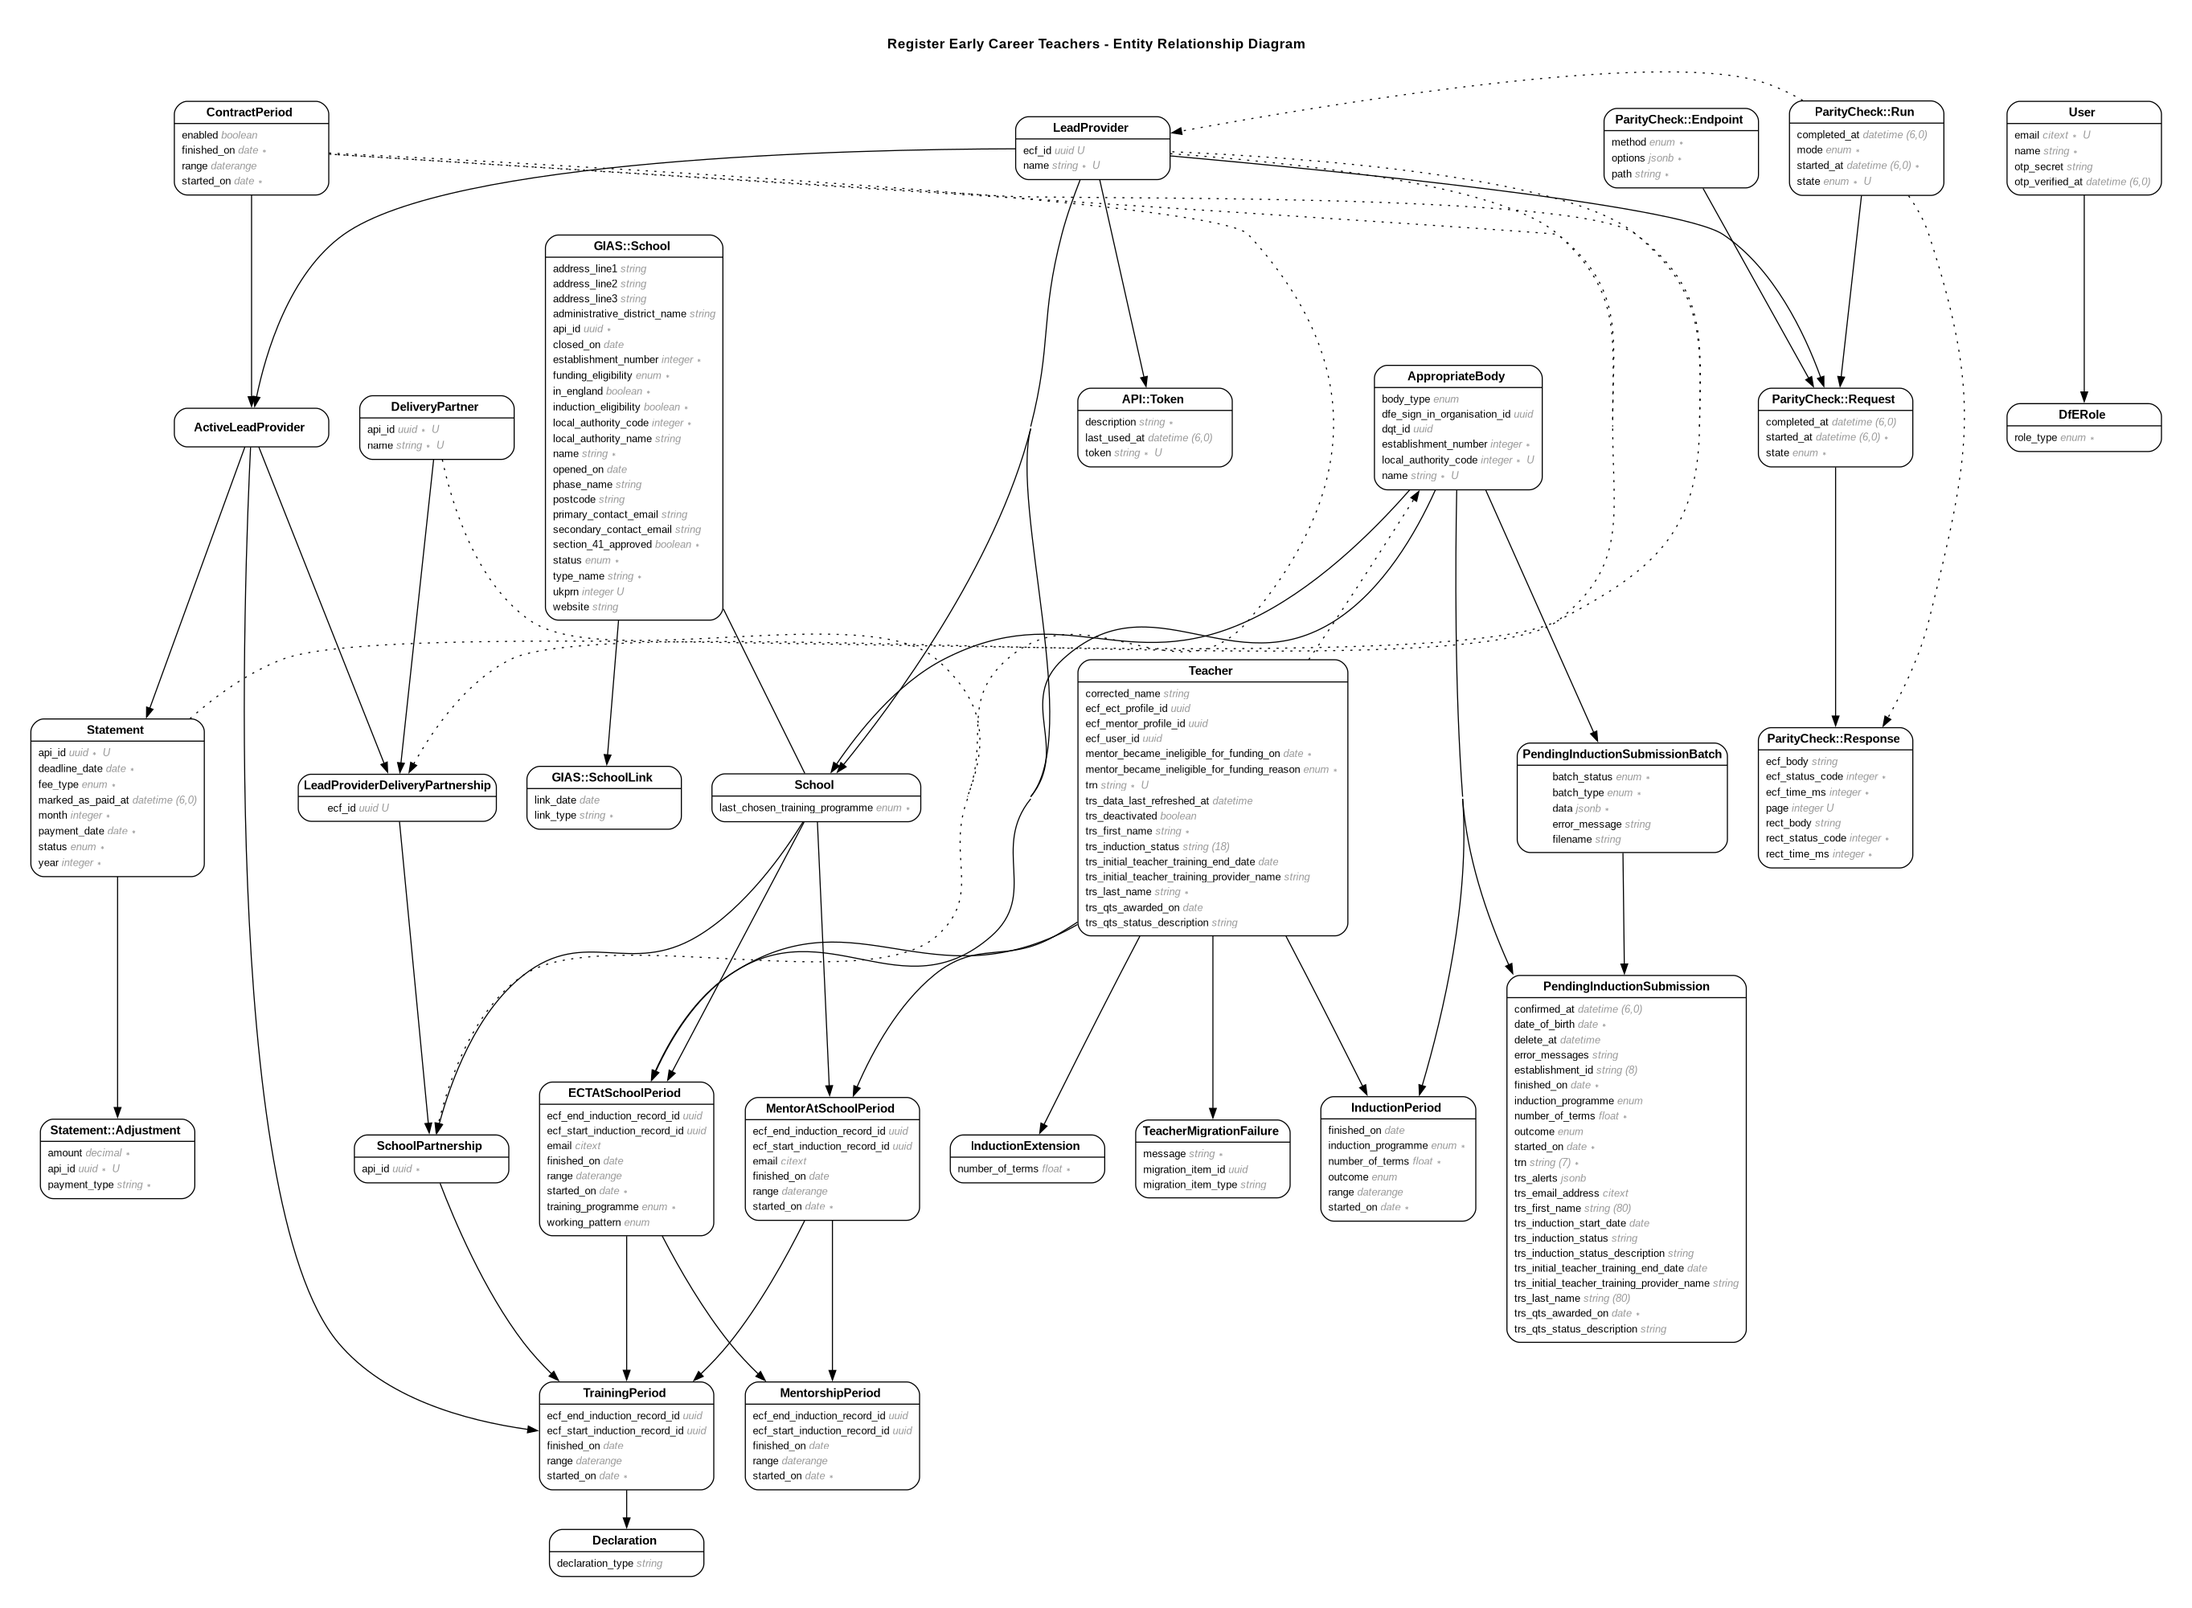
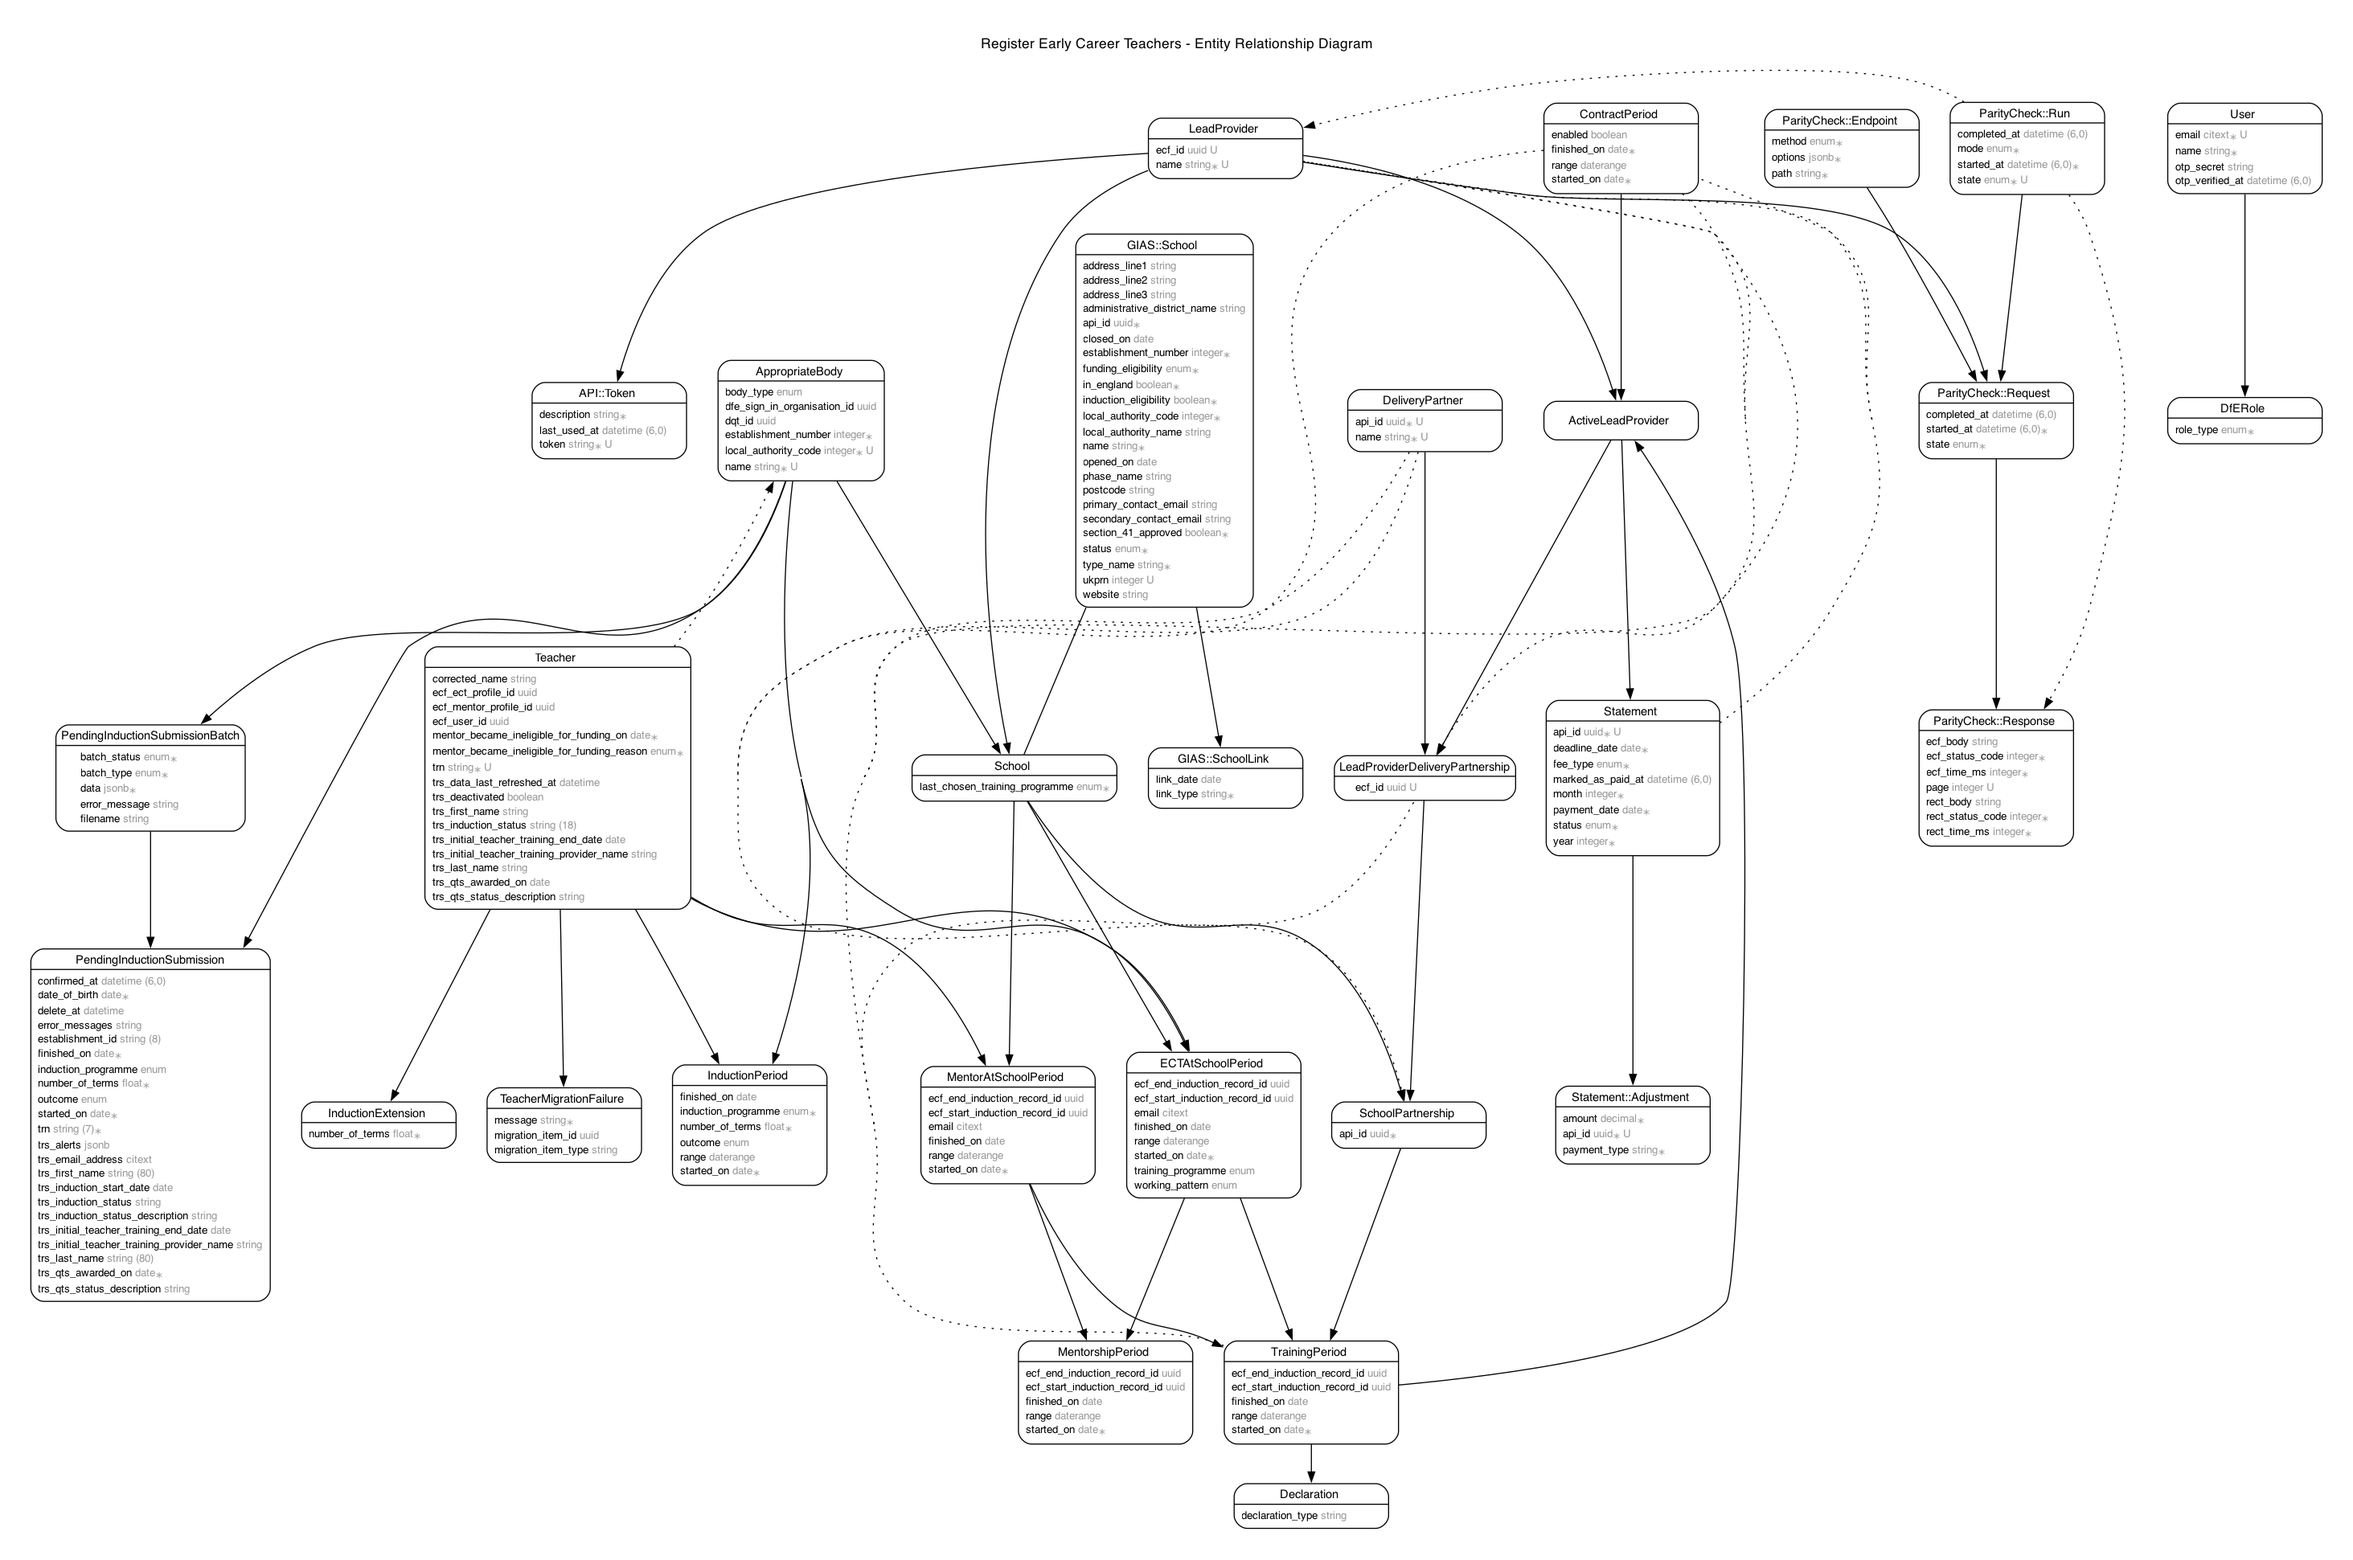
[1705] Drop `lead_provider_id` from `ECTAtSchoolPeriod`
Following the changes made in: https://github.com/DFE-Digital/register-early-career-teachers-public/pull/852

diff --git a/db/schema.rb b/db/schema.rb
@@ -10,7 +10,7 @@
 #
 # It's strongly recommended that you check this file into your version control system.
 
-ActiveRecord::Schema[8.0].define(version: 2025_07_01_083912) do
+ActiveRecord::Schema[8.0].define(version: 2025_07_03_122602) do
   # These are extensions that must be enabled in order to support this database
   enable_extension "citext"
   enable_extension "pg_catalog.plpgsql"
@@ -188,10 +188,8 @@ ActiveRecord::Schema[8.0].define(version: 2025_07_01_083912) do
     t.enum "working_pattern", enum_type: "working_pattern"
     t.citext "email"
     t.bigint "school_reported_appropriate_body_id"
-    t.bigint "lead_provider_id"
     t.enum "training_programme", enum_type: "training_programme"
     t.index "teacher_id, ((finished_on IS NULL))", name: "index_ect_at_school_periods_on_teacher_id_finished_on_IS_NULL", unique: true, where: "(finished_on IS NULL)"
-    t.index ["lead_provider_id"], name: "index_ect_at_school_periods_on_lead_provider_id"
     t.index ["school_id", "teacher_id", "started_on"], name: "index_ect_at_school_periods_on_school_id_teacher_id_started_on", unique: true
     t.index ["school_id"], name: "index_ect_at_school_periods_on_school_id"
     t.index ["school_reported_appropriate_body_id"], name: "idx_on_school_reported_appropriate_body_id_01f5ffc90a"
@@ -714,7 +712,6 @@ ActiveRecord::Schema[8.0].define(version: 2025_07_01_083912) do
   add_foreign_key "active_lead_providers", "lead_providers"
   add_foreign_key "dfe_roles", "users"
   add_foreign_key "ect_at_school_periods", "appropriate_bodies", column: "school_reported_appropriate_body_id"
-  add_foreign_key "ect_at_school_periods", "lead_providers"
   add_foreign_key "ect_at_school_periods", "schools"
   add_foreign_key "ect_at_school_periods", "teachers"
   add_foreign_key "events", "active_lead_providers", on_delete: :nullify

diff --git a/db/migrate/20250703122602_remove_lead_provider_id_from_ect_at_school_periods.rb b/db/migrate/20250703122602_remove_lead_provider_id_from_ect_at_school_periods.rb
@@ -1,0 +1,5 @@
+class RemoveLeadProviderIdFromECTAtSchoolPeriods < ActiveRecord::Migration[8.0]
+  def change
+    remove_reference :ect_at_school_periods, :lead_provider, foreign_key: true, index: true
+  end
+end
